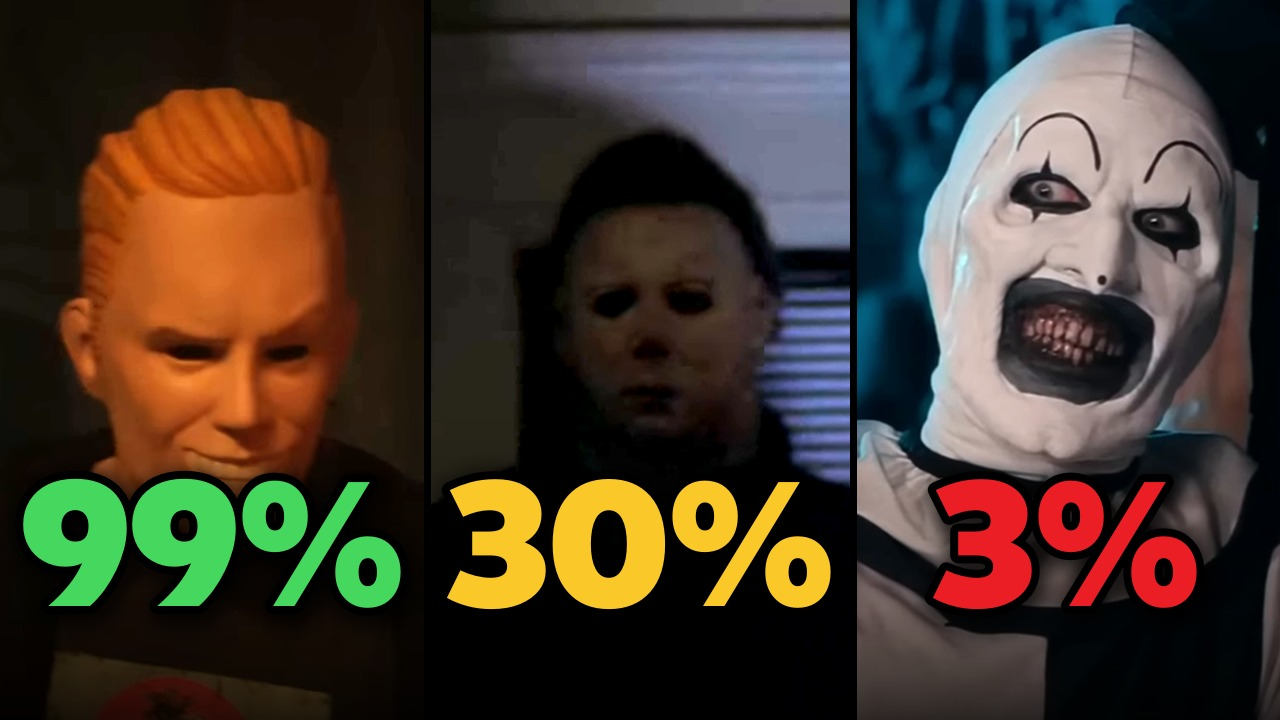
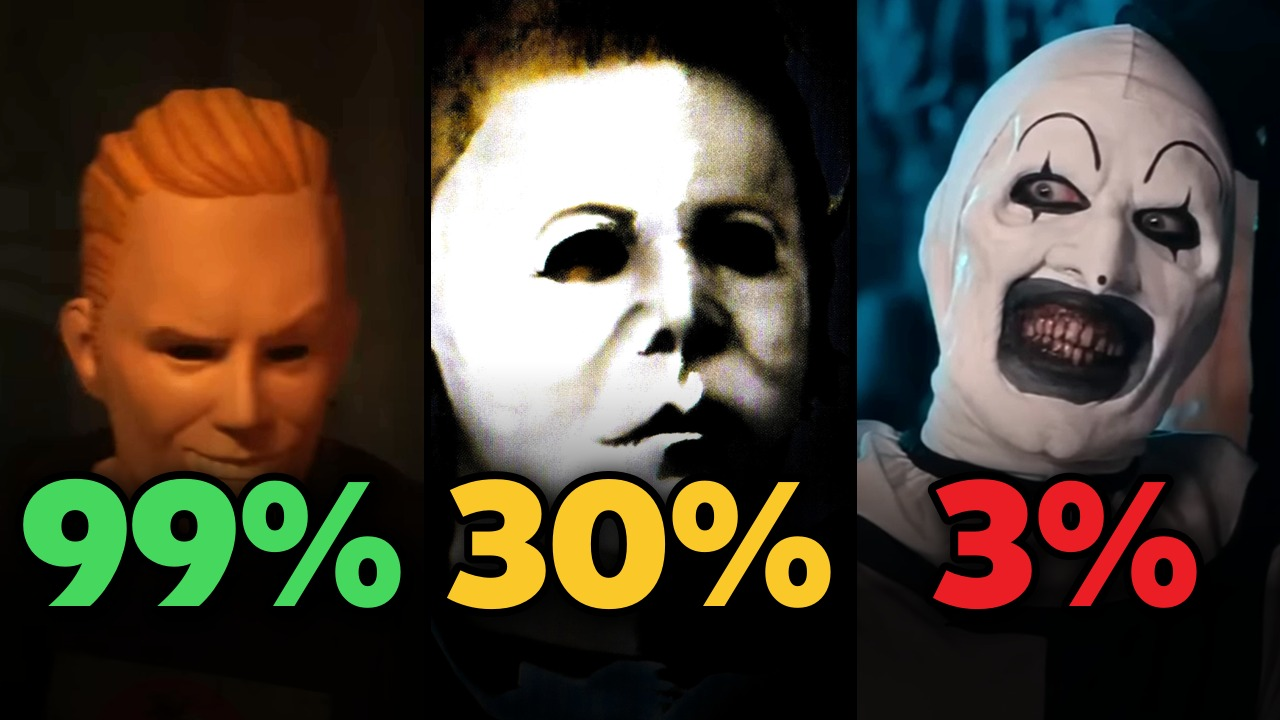
Halloween thumbs v4: poster faces (Michael 1978 key art, Hell Fest poster), strong shadow under the numbers, C red = 3%; new horror-ranked-thumbnail skill

diff --git a/concepts/i444/ep_halloween/thumbs.py b/concepts/i444/ep_halloween/thumbs.py
@@ -12,7 +12,10 @@ CLIPS = sys.argv[1] if len(sys.argv) > 1 else 'E:/YTP2/Instruction444/clips/hall
 OUT = sys.argv[2] if len(sys.argv) > 2 else os.path.join(HERE, 'upload')
 W, H = 1280, 720; PW = [427, 426, 427]
 GREEN = (70, 215, 95, 255); YEL = (250, 200, 40, 255); RED = (235, 30, 38, 255); ORANGE = (255, 130, 20, 255)
+POSTERS = sys.argv[3] if len(sys.argv) > 3 else 'C:/Users/hw549/AppData/Local/Temp/claude/C--Users-hw549-Downloads-YTP1/13ed4b5d-5f22-4c14-8e5f-413f537955db/scratchpad/tmdb'
 def frame(clip, t):
+    """a clip frame (1920x1080) or, for clip='poster:<file>', an official poster/still from TMDB at its own size (never committed)"""
+    if clip.startswith('poster:'): return Image.open(os.path.join(POSTERS, clip[7:])).convert('RGB')
     png = subprocess.check_output(['ffmpeg', '-v', 'error', '-ss', str(t), '-i', os.path.join(CLIPS, clip + '.mp4'), '-frames:v', '1',
                                    '-f', 'image2pipe', '-vcodec', 'png', '-'])
     im = Image.open(io.BytesIO(png)).convert('RGB')
@@ -28,15 +31,15 @@ def panel(sp, pw):
         t0, t1 = sp['blurfill']; bg = im.crop((0, t0, 1920, t1)).resize((int(1920 * H / (t1 - t0)), H), Image.LANCZOS).filter(ImageFilter.GaussianBlur(30))
         bg = ImageEnhance.Brightness(bg).enhance(0.6)
         bx = int(min(max(sp['cx'] * H / (t1 - t0) - pw / 2, 0), bg.width - pw)); bg = bg.crop((bx, 0, bx + pw, H))
-    else: s = max(s, H / 1080, pw / 1920)                # never smaller than the panel (no black bars)
-    big = im.resize((int(1920 * s), int(1080 * s)), Image.LANCZOS)
+    else: s = max(s, H / im.height, pw / im.width)       # never smaller than the panel (no black bars)
+    big = im.resize((int(im.width * s), int(im.height * s)), Image.LANCZOS)
     cx, cy = sp['cx'] * s, sp['cy'] * s
     x0 = int(min(max(cx - pw / 2, 0), big.width - pw)); y0 = int(min(max(cy - sp.get('eye_y', 250), 0), big.height - H))
     p = big.crop((x0, y0, x0 + pw, y0 + H)).convert('RGBA')
     if sp.get('blurfill'):
         top = int(sp['blurfill'][0] * s) - y0; bot = int(sp['blurfill'][1] * s) - y0
         canvas = bg.convert('RGBA'); canvas.alpha_composite(p.crop((0, max(top, 0), pw, min(bot, H))), (0, max(top, 0))); p = canvas
-    v = np.linspace(0, 1, H)[:, None]; a = (np.clip((v - 0.55) / 0.45, 0, 1) ** 1.5 * 200).astype(np.uint8)   # dark bottom for the %
+    v = np.linspace(0, 1, H)[:, None]; a = (np.clip((v - 0.5) / 0.32, 0, 1) ** 1.2 * 235).astype(np.uint8)   # dark bottom under the % (owner 10/31: strong shadow)
     p.alpha_composite(Image.merge('RGBA', [Image.new('L', (pw, H), 0)] * 3 + [Image.fromarray(np.repeat(a, pw, 1), 'L')]))
     return p
 def three(specs, name):
@@ -50,9 +53,9 @@ def three(specs, name):
 # zoomed in, the face fills most of the panel with the eyes in the upper third, % below the face. Coordinates = 1920x1080 frame.
 def P(clip, t, cx, cy, face_h, pct, col, bright=1.15, face_px=430, eye_y=300, blurfill=None): return dict(clip=clip, t=t, cx=cx, cy=cy, face_h=face_h, pct=pct, col=col, bright=bright, face_px=face_px, eye_y=eye_y, blurfill=blurfill)
 os.makedirs(OUT, exist_ok=True)
-three([P('tk_trailer', 101.6, 840, 330, 330, '99%', GREEN, 1.6, face_px=340, eye_y=240), P('h78_best_hd', 402.5, 1140, 360, 230, '30%', YEL, 1.8, face_px=340, eye_y=260),
+three([P('tk_trailer', 101.6, 840, 330, 330, '99%', GREEN, 1.6, face_px=340, eye_y=240), P('poster:orig_vGml4OWeorzTFRkTzfDRYVIb5UG.jpg', 0, 1060, 1450, 1300, '30%', YEL, 0.92, face_px=560, eye_y=300),
        P('t2_costume_hd', 85.0, 950, 270, 280, '3%', RED, 1.25, face_px=380, eye_y=230)], 'halloween_thumb_a.jpg')
 three([P('ss_eone_trailer', 3.5, 1340, 500, 700, '50%', GREEN, 1.15, face_px=644, eye_y=325), P('trt_wbuk_sam_hd', 100, 740, 340, 560, '40%', YEL, 1.6, face_px=380, eye_y=210),
        P('t2_sienna_hd', 186.5, 640, 600, 470, '3%', RED, 1.25)], 'halloween_thumb_b.jpg')
-three([P('h3_skull_hd', 120, 1080, 460, 430, '60%', GREEN, 1.5), P('hf_maze_hd', 28.0, 690, 400, 300, '45%', YEL, 2.6, face_px=400, eye_y=250),
-       P('t1_meet_hd', 223.0, 600, 470, 560, '6%', RED, 1.1)], 'halloween_thumb_c.jpg')
+three([P('h3_skull_hd', 120, 1080, 460, 430, '60%', GREEN, 1.5), P('poster:orig_4ec0zvanggPZHizfQ5DnioF2wbc.jpg', 0, 1920, 560, 1000, '45%', YEL, 1.3, face_px=520, eye_y=300),
+       P('t1_meet_hd', 223.0, 600, 470, 560, '3%', RED, 1.1)], 'halloween_thumb_c.jpg')

diff --git a/concepts/i444/skill/horror-ranked-thumbnail/SKILL.md b/concepts/i444/skill/horror-ranked-thumbnail/SKILL.md
@@ -1,0 +1,41 @@
+---
+name: horror-ranked-thumbnail
+description: Make the Horror Ranked three-panel survival thumbnails (left GREEN %, middle YELLOW %, right RED %, big villain faces from official posters/stills, strong dark shadow under the numbers), always as three visually different variants A/B/C. Use for any Horror Ranked / Instruction 444 ranking video thumbnail.
+---
+
+# Horror Ranked thumbnail (owner's standing format, 10/31)
+
+Reference: `reference_myers_v4_a.jpg` in this folder (EP01 Myers v4 A: 90% / 62% / 1%).
+
+## Layout
+- 1280x720, three panels 427 / 426 / 427 px, thin black gutters (6 px).
+- One villain face per panel, **big**: the whole face fills most of the panel (forehead near the top edge, chin around 2/3 down),
+  eyes in the upper third. Never crop mid-face, never show a tiny figure.
+- Numbers: YouTube Sans Black (`ep01/YouTubeSans-Black.otf`, `gfx.f(182)`), stroke 8 black, drop shadow (`gfx.shadow_text`),
+  centred in each panel at y = H - 178. **By position, always: LEFT GREEN (70,215,95), MIDDLE YELLOW (250,200,40), RIGHT RED (235,30,38).**
+  The red number is the lowest survival rate in the video (e.g. Art the Clown 3%, not his other entry's 6%).
+- **Shadow under the numbers is mandatory**: a vertical black gradient over each panel from 50 % height to the bottom
+  (alpha ramps 0 -> ~235), so the picture under the % is dark and the numbers pop. Don't let the face sit under the %.
+
+## Sources (quality first)
+- Prefer **official posters / key art / HD stills** (TMDB: open `themoviedb.org/movie/<id>/images/posters|backdrops` in the built-in
+  browser, collect the `/t/p/` paths with javascript, then download `https://image.tmdb.org/t/p/original/<path>`). Keep them in the
+  scratchpad, never commit them. Video frame grabs are soft; use them only when no poster/still shows the face (then the sharpest HD
+  frame of an official clip, never a trailer graphic, never a letterboxed area: crop the active picture and scale it to fill).
+- Brighten dark faces a little (brightness 1.1-1.6, contrast ~1.18), keep blown-out whites under control (brightness < 1 if needed).
+
+## Three variants, visually very different
+Always make A, B and C with different faces/compositions so the test reads as three different videos, e.g.
+Ghostface: A = Ghostface / character 1 / character 2; B = Ghostface 1 / Ghostface 2 / Ghostface 3.
+Halloween special: A = Sweet Sixteen Killer 99 / Michael Myers 30 / Art 3; B = Harold 50 / Sam 40 / bloody Art 3;
+C = Silver Shamrock skull mask 60 / Hell Fest's The Other 45 / Art 3.
+
+## Tool
+`concepts/i444/ep_halloween/thumbs.py`: `P(clip_or_'poster:<file>', t, cx, cy, face_h, pct, col, bright, face_px, eye_y)`
+(cx, cy, face_h in source pixels; face_px = face height in the output; eye_y = where (cx, cy) lands vertically).
+`python thumbs.py [clips_dir] [out_dir] [posters_dir]` writes `upload/<ep>_thumb_{a,b,c}.jpg`.
+
+## QA before sending
+View all three at 640x360 and 960x540: every face whole, sharp and large; no black or blurred bands; the three colours in
+green / yellow / red order; numbers sit on dark shadow; the red % matches the narration's lowest rate. Send the three jpgs to the owner,
+update the upload kit's thumbnail lines, push.

diff --git a/concepts/i444/skill/horror-ranked-episode/SKILL.md b/concepts/i444/skill/horror-ranked-episode/SKILL.md
@@ -79,10 +79,7 @@ scores, no hits. Music at -39 LUFS with a 3 kHz high-shelf -4 dB, voice -15 LUFS
    (render_v2 copy with a per-clip `bar` height; ~2.5 min per section).
 2. QA grid of one frame per shot from the render (`qa/shots.py`) + the cold open frame by frame against the word onsets; loudness check.
 3. Phone copy (1280x720 crf 28, ~27 MB) and show the owner before any upload; upload only after their OK.
-4. Thumbnails (owner 10/31, standing rule): always 3 variants, each 3 panels (1280x720, 427/426/427, black gutters) with the %
-   in f(182): LEFT GREEN, MIDDLE YELLOW, RIGHT RED (by position, whatever the tier). The three variants must look very different
-   (e.g. Ghostface: A = Ghostface / character 1 / character 2, B = Ghostface 1 / Ghostface 2 / Ghostface 3). Zoomed in: the face fills
-   most of the panel, eyes in the upper third, the % below the face, brighten dark faces a little; sharp HD frames of the official clips
-   only (`ep_halloween/thumbs.py`, P(clip, t, cx, cy, face_h, pct, col, ...)).
+4. Thumbnails: follow the `horror-ranked-thumbnail` skill (green / yellow / red by position, big poster faces, strong shadow under
+   the numbers, three visually different variants).
 5. `make_srt.py` (alignment, cues <= 42 chars / 2.8 s), chapters from the section starts into `upload/upload_kit_vN.md`. Tags: short popular words.
 6. Commit scripts, md, tiles, thumbs, srt; push the branch. Report in max 3 lines per milestone.

diff --git a/concepts/i444/ep_halloween/upload/upload_kit_v1.md b/concepts/i444/ep_halloween/upload/upload_kit_v1.md
@@ -9,9 +9,9 @@ enders\halloween_v7.mp4 | Subtitles: upload/halloween_ranked_en_v4.srt | Thumbna
 3. 10 Halloween Horror Movies Ranked From Easiest to Deadliest Night
 
 ## Thumbnails (left GREEN / middle YELLOW / right RED; three very different variants)
-A. Sweet Sixteen Killer 99% / Michael Myers 30% / Art the Clown (Terrifier 2) 3%
+A. Sweet Sixteen Killer 99% / Michael Myers (1978 poster art) 30% / Art the Clown (Terrifier 2) 3%
 B. Harold the scarecrow (Scary Stories) 50% / Sam (Trick 'r Treat) 40% / bloody Art (Terrifier 2) 3%
-C. Silver Shamrock skull mask (Halloween III) 60% / The Other (Hell Fest) 45% / Art (Terrifier) 6%
+C. Silver Shamrock skull mask (Halloween III) 60% / The Other (Hell Fest poster) 45% / Art (Terrifier) 3%
 
 ## Description
 Tonight is the one night a year a mask doesn't look suspicious. So which Halloween night horror movie could you actually survive? We score every killer on strength, intelligence, kill count and how supernatural they are, then rank all ten from the easiest night to the deadliest one, from Totally Killer and Trick 'r Treat to Michael Myers and Art the Clown.
